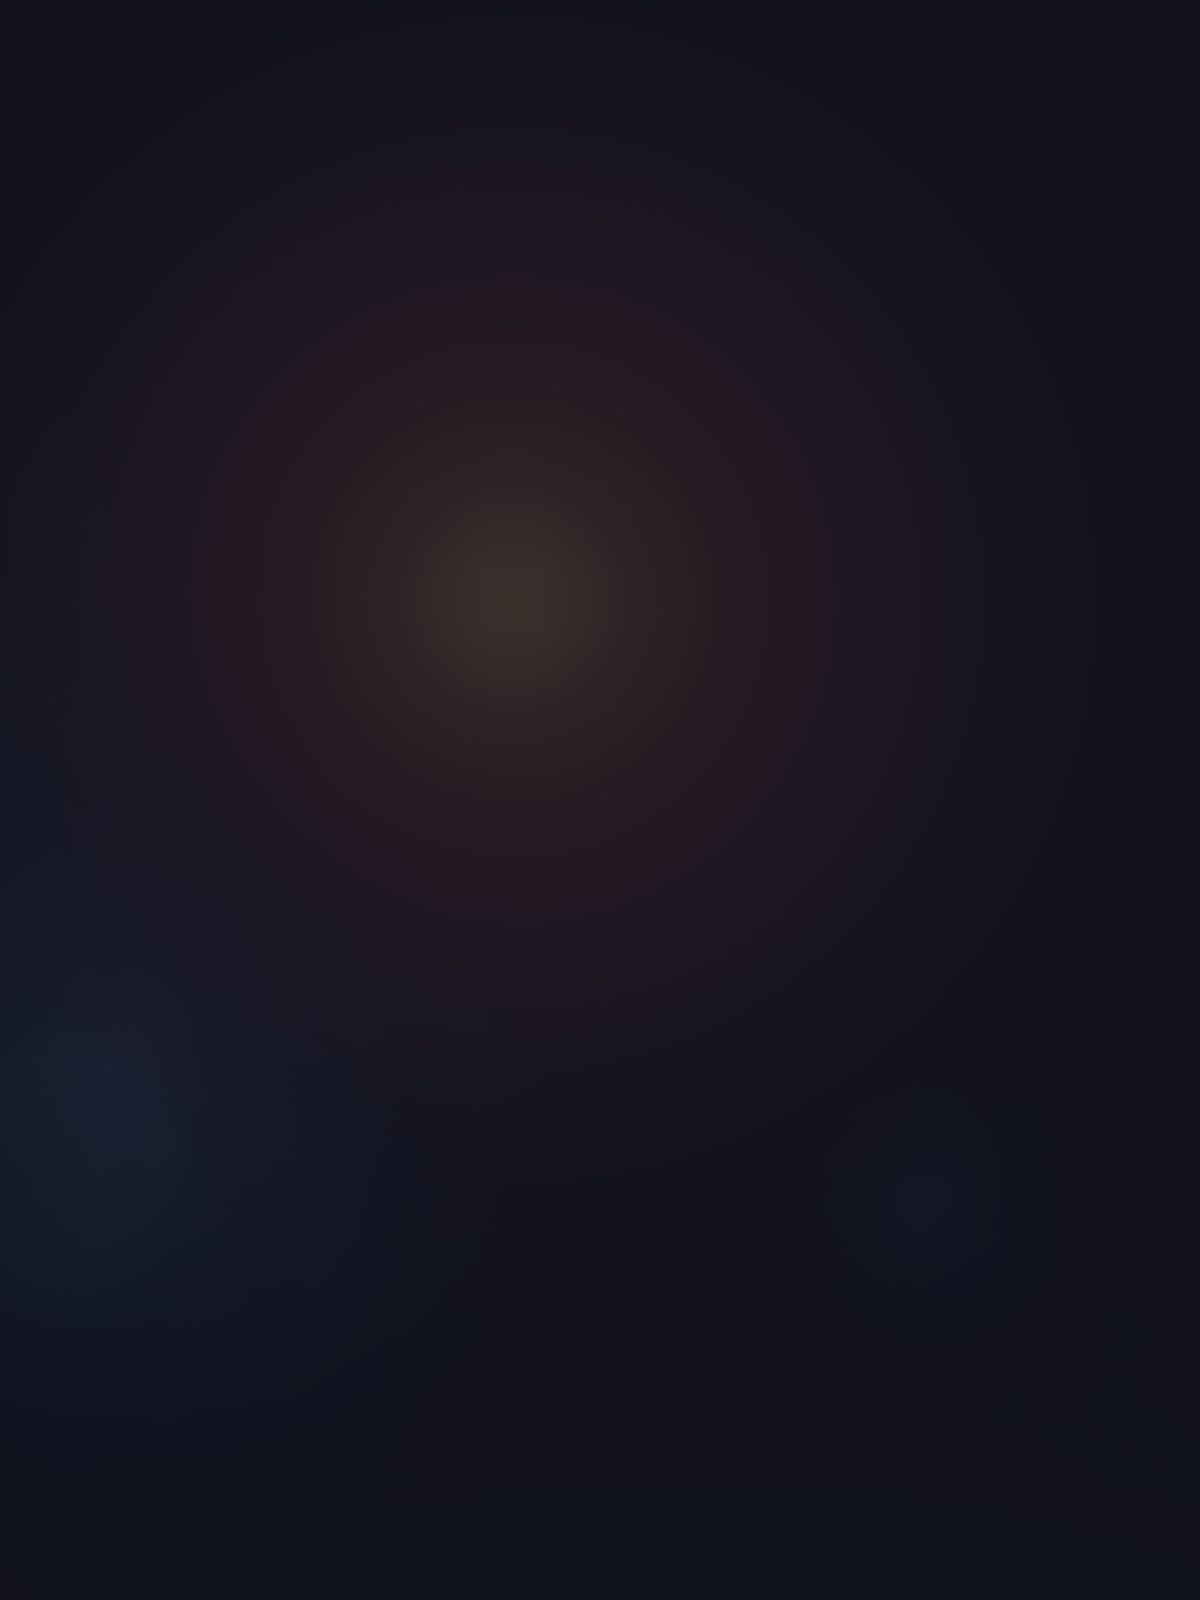
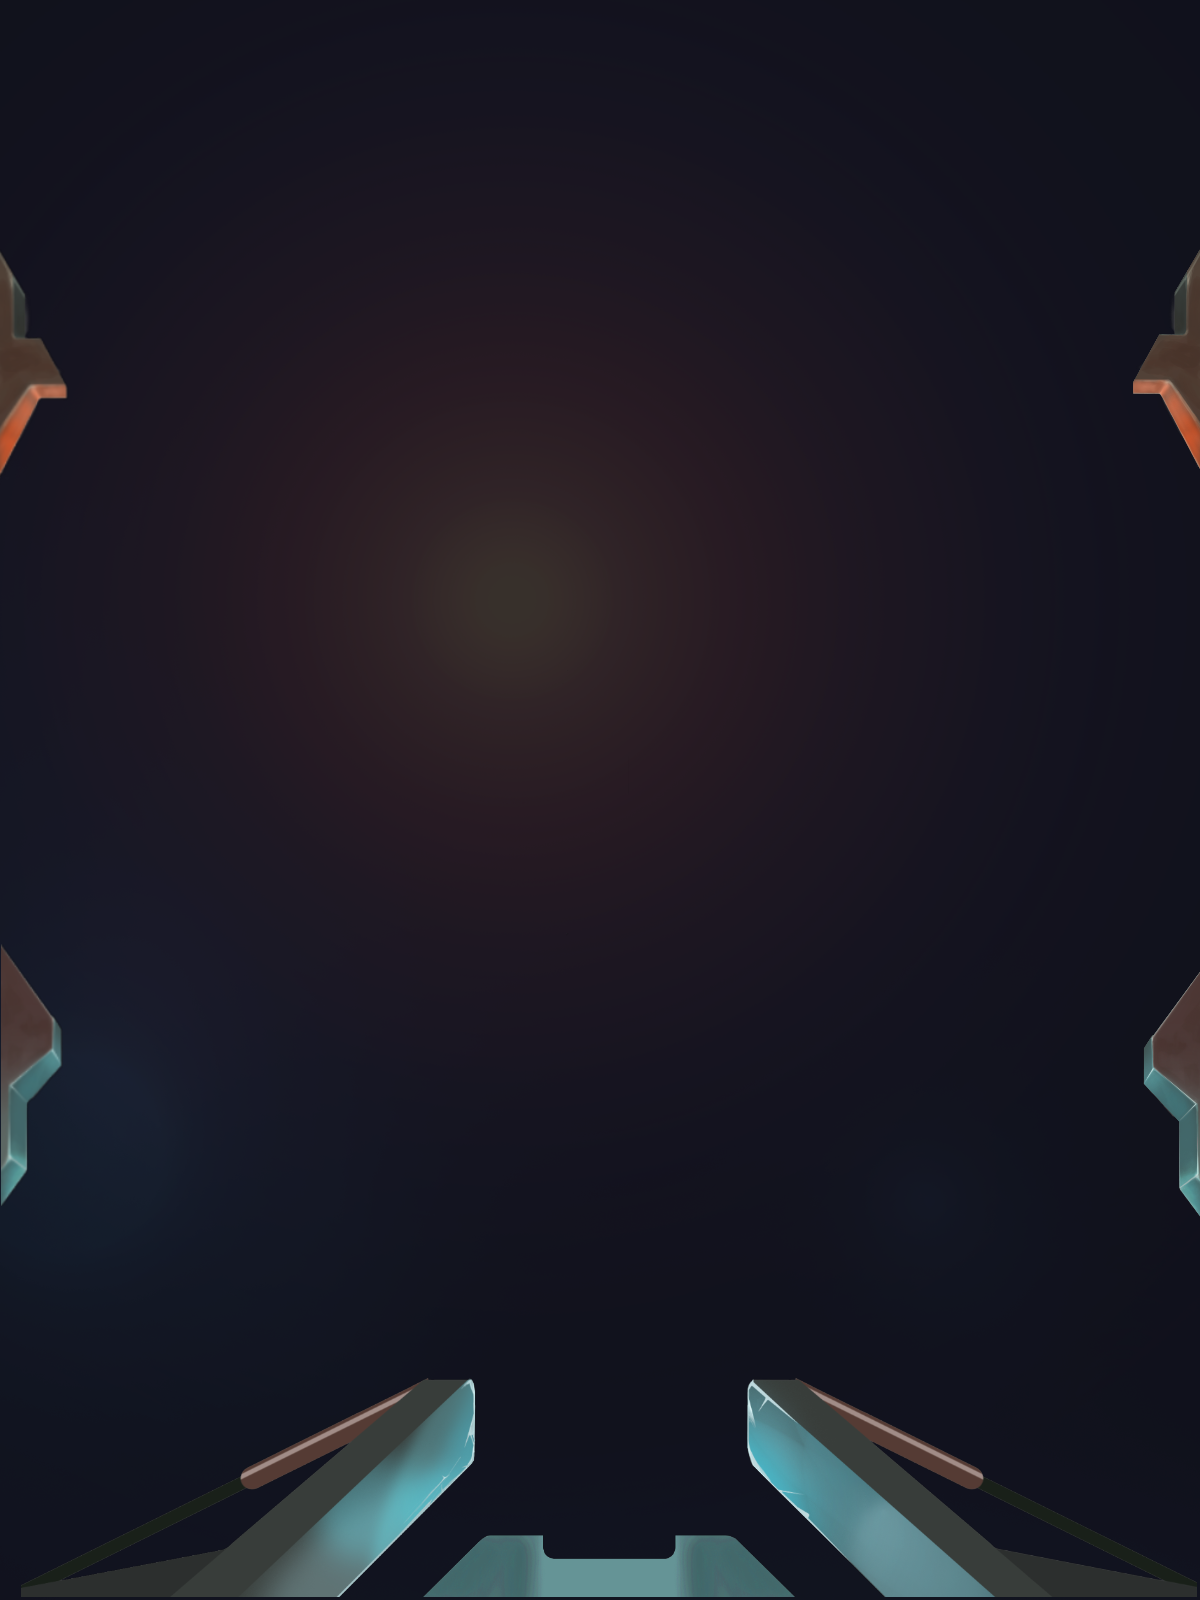
add bottom menu actor

diff --git a/core/src/com/leo/game/actors/AnimationMenuActor.java b/core/src/com/leo/game/actors/AnimationMenuActor.java
@@ -1,17 +1,15 @@
 package com.leo.game.Actors;
 
 import com.badlogic.gdx.Gdx;
-import com.badlogic.gdx.graphics.OrthographicCamera;
 import com.badlogic.gdx.graphics.g2d.Batch;
-import com.badlogic.gdx.math.Vector2;
-import com.badlogic.gdx.math.Vector3;
 import com.badlogic.gdx.scenes.scene2d.Actor;
-import com.badlogic.gdx.scenes.scene2d.InputEvent;
-import com.badlogic.gdx.scenes.scene2d.InputListener;
-import com.badlogic.gdx.scenes.scene2d.Touchable;
+import com.badlogic.gdx.utils.Array;
+import com.badlogic.gdx.utils.TimeUtils;
 import com.leo.game.Security;
 import com.leo.game.Textures.AssetLoader;
-import com.leo.game.objects.GoodTablet;
+import com.leo.game.objects.animationMenu.BottomWaveMenu;
+
+import java.util.Iterator;
 
 /**
  * Created by leonidtiskevic on 10.02.17.
@@ -19,12 +17,20 @@ import com.leo.game.objects.GoodTablet;
 
 public class AnimationMenuActor extends Actor {
 
-    private GoodTablet goodTablet;
+    private long lastWave;
+    private BottomWaveMenu mBottomWave;
+    private Array<BottomWaveMenu> mBottomWaveMenuArray;
 
     public AnimationMenuActor(){
-        goodTablet = new GoodTablet(Security.WIDTH / 2 - AssetLoader.goodTablet.getWidth() / 2,
-                Security.HEIGHT - AssetLoader.goodTablet.getHeight() / 2, AssetLoader.goodTablet.getWidth(),
-                AssetLoader.goodTablet.getHeight());
+
+        mBottomWaveMenuArray = new Array<BottomWaveMenu>();
+
+    }
+
+    public void bottomWaves(){
+        mBottomWave = new BottomWaveMenu(Security.WIDTH / 2 - 150, -20, 300, 100);
+        mBottomWaveMenuArray.add(mBottomWave);
+        lastWave = TimeUtils.millis();
 
     }
 
@@ -33,8 +39,22 @@ public class AnimationMenuActor extends Actor {
 
     public void draw(Batch batch, float parentAlpha) {
         super.draw(batch, parentAlpha);
-        batch.draw(AssetLoader.goodTablet, goodTablet.getX(), goodTablet.getY(), goodTablet.getWidth(), goodTablet.getHeight());
-        goodTablet.update(Gdx.graphics.getDeltaTime());
+        for (BottomWaveMenu bottomWaveMenu : mBottomWaveMenuArray) {
+            batch.draw(AssetLoader.testwave, Security.WIDTH / 2 - bottomWaveMenu.getWidth() / 2, bottomWaveMenu.getY(), bottomWaveMenu.getWidth(), bottomWaveMenu.getHeight());
+        }
+
+        if (TimeUtils.millis() - lastWave > 600) bottomWaves();
+
+        Iterator<BottomWaveMenu> iter = mBottomWaveMenuArray.iterator();
+
+        while (iter.hasNext()){
+            BottomWaveMenu bottomWave = iter.next();
+            bottomWave.update(Gdx.graphics.getDeltaTime());
+            if (bottomWave.getY() > 90){
+                iter.remove();
+            }
+
+        }
 
     }
 

diff --git a/core/src/com/leo/game/objects/animationMenu/BottomWaveMenu.java b/core/src/com/leo/game/objects/animationMenu/BottomWaveMenu.java
@@ -1,0 +1,60 @@
+package com.leo.game.objects.animationMenu;
+
+import com.badlogic.gdx.math.Vector2;
+
+/**
+ * Created by leonidtiskevic on 05.03.17.
+ */
+
+public class BottomWaveMenu {
+
+    private Vector2 position;
+    private Vector2 velocity;
+    private Vector2 widthChange;
+    private Vector2 deltaWidth;
+
+    private int width;
+    private int height;
+
+    public BottomWaveMenu(float x, float y, int width, int height){
+        this.width = width;
+        this.height = height;
+        position = new Vector2(x, y);
+        velocity = new Vector2(0, -100);
+        widthChange = new Vector2(300, 100);
+        deltaWidth = new Vector2(30, 0);
+        x = position.x;
+        y = position.y;
+    }
+
+
+    public void update(float dt){
+        position.add(velocity.cpy().scl(dt));
+        widthChange.add(deltaWidth.cpy().scl(dt));
+
+        if (position.y < -10){
+            velocity.y = 50;
+            deltaWidth.x = -110;
+            deltaWidth.y = -38;
+        }
+
+    }
+
+    public float getX() {
+        return position.x;
+    }
+
+    public float getY() {
+        return position.y;
+    }
+
+    public float getWidth() {
+        return widthChange.x;
+    }
+
+    public float getHeight() {
+        return widthChange.y;
+    }
+
+
+}

diff --git a/core/src/com/leo/game/Security.java b/core/src/com/leo/game/Security.java
@@ -6,8 +6,6 @@ import com.badlogic.gdx.Preferences;
 import com.badlogic.gdx.assets.AssetManager;
 import com.badlogic.gdx.graphics.g2d.BitmapFont;
 import com.badlogic.gdx.graphics.g2d.freetype.FreeTypeFontGenerator;
-import com.badlogic.gdx.utils.SharedLibraryLoader;
-import com.leo.game.Actors.BottomActor;
 import com.leo.game.Textures.AssetLoader;
 import com.leo.game.Actors.BackgroundActor;
 import com.leo.game.Actors.AnimationMenuActor;
@@ -27,7 +25,6 @@ public class Security extends Game {
 	public BackgroundActor background;
 	public AnimationMenuActor animActor;
 	public AssetManager mManager;
-	public BottomActor mBottomActor;
 
 	@Override
 	public void create () {
@@ -37,7 +34,6 @@ public class Security extends Game {
 		background = new BackgroundActor();
 		background.setPosition(0,0);
 		animActor = new AnimationMenuActor();
-		mBottomActor = new BottomActor();
 		mManager = new AssetManager();
 
 		pref = Gdx.app.getPreferences("Score");

diff --git a/core/src/com/leo/game/screens/MainMenuScreen.java b/core/src/com/leo/game/screens/MainMenuScreen.java
@@ -70,7 +70,6 @@ public class MainMenuScreen implements Screen {
         stage.addActor(game.background);
         stage.addActor(playBt);
         stage.addActor(game.animActor);
-      //  stage.addActor(game.mBottomActor);
         Gdx.input.setInputProcessor(stage);
 
     }
